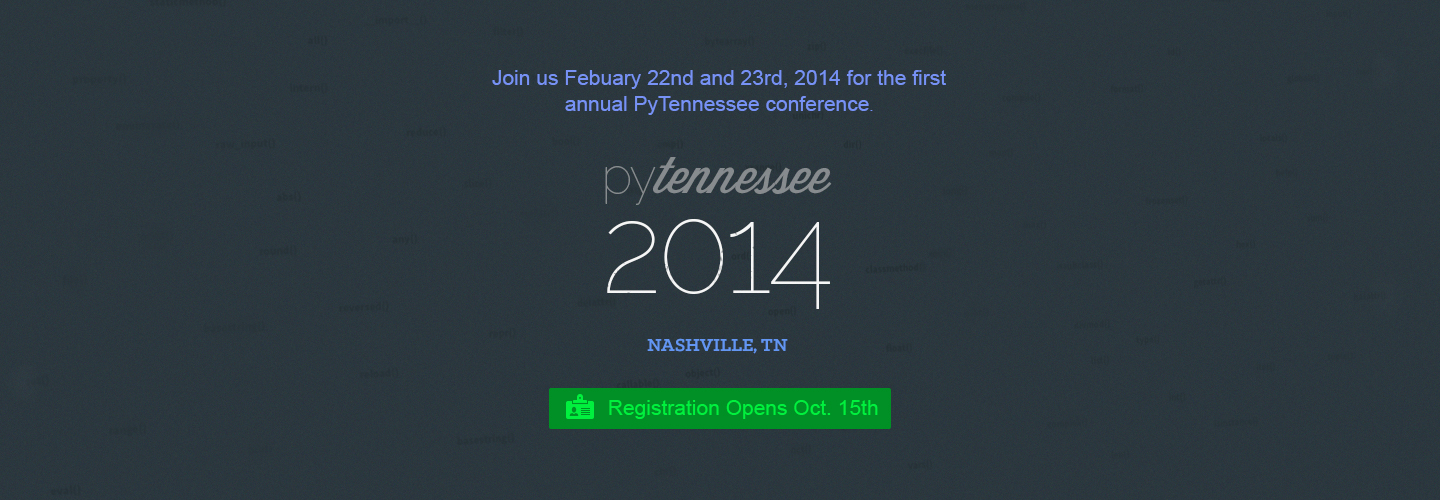
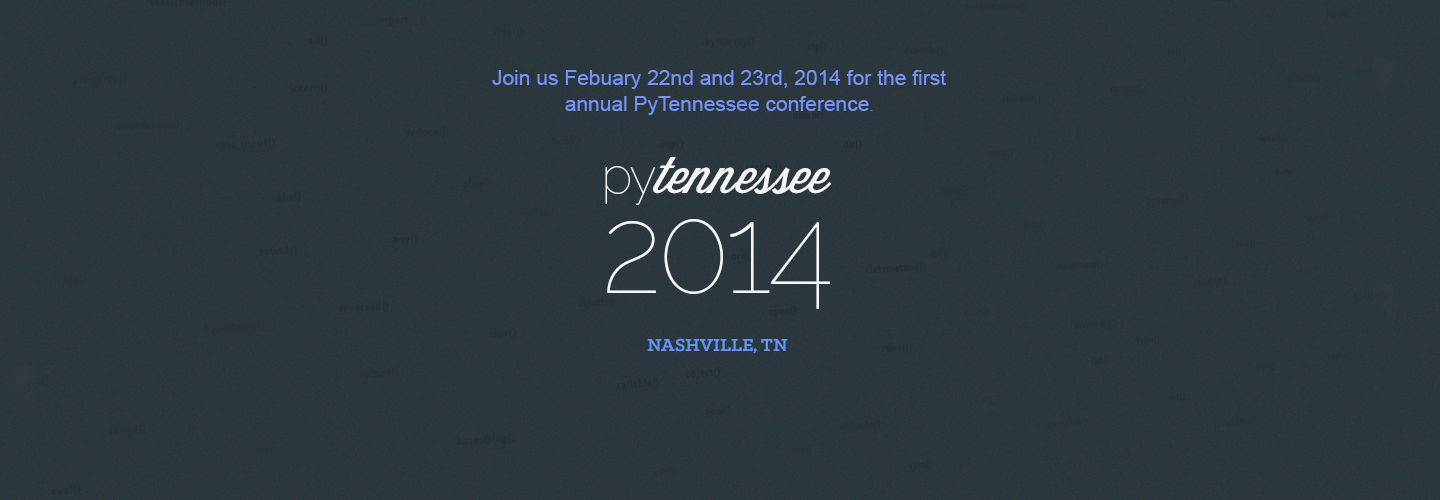
Added registration btn

Changed region(s): [[0.375, 0.75, 0.625, 0.87], [0.4062, 0.33, 0.5938, 0.39]]

diff --git a/staticfiles/css/pytn.css b/staticfiles/css/pytn.css
@@ -189,3 +189,44 @@ background: #333333;
 #hello a {
     color: #009025;
 }
+
+
+.dashboard-panel-header > i {
+    display: inline-block;
+    position: relative;
+    top: -4px;
+    opacity: 0.5;
+}
+.dashboard-panel-header h3 {
+    display: inline-block;
+    border-bottom: 1px solid #7792f5;
+}
+
+.dashboard-panel {
+    background: #E6EAEC;
+    padding: 15px;
+    margin: 15px;
+    border: 1px solid #CFD9DD;
+}
+
+
+#register-btn {
+    background: transparent url(../symposion/img/register-btn.png) 0 0 no-repeat;
+    height: 41px;
+    width: 202px;
+    display: block;
+    top: 388px;
+    position: relative;
+    left: 0;
+    text-indent: -9999px;
+    margin: 0 auto;
+
+    -webkit-transition: background-position .3s;
+    -moz-transition: background-position .3s;
+    -o-transition: background-position .3s;
+    -ms-transition: background-position .3s;
+    transition: background-position .3s;
+}
+#register-btn:hover {
+    background-position: 0 -41px;
+}

diff --git a/pytn/templates/homepage.html b/pytn/templates/homepage.html
@@ -13,7 +13,7 @@
 
 {% block body_base %}
    <div id="hero">
-
+        <a href="http://pytennessee2014.eventbrite.com/" id="register-btn">Register now</a>
    </div>
 
 {% sponsor_levels as levels %}
